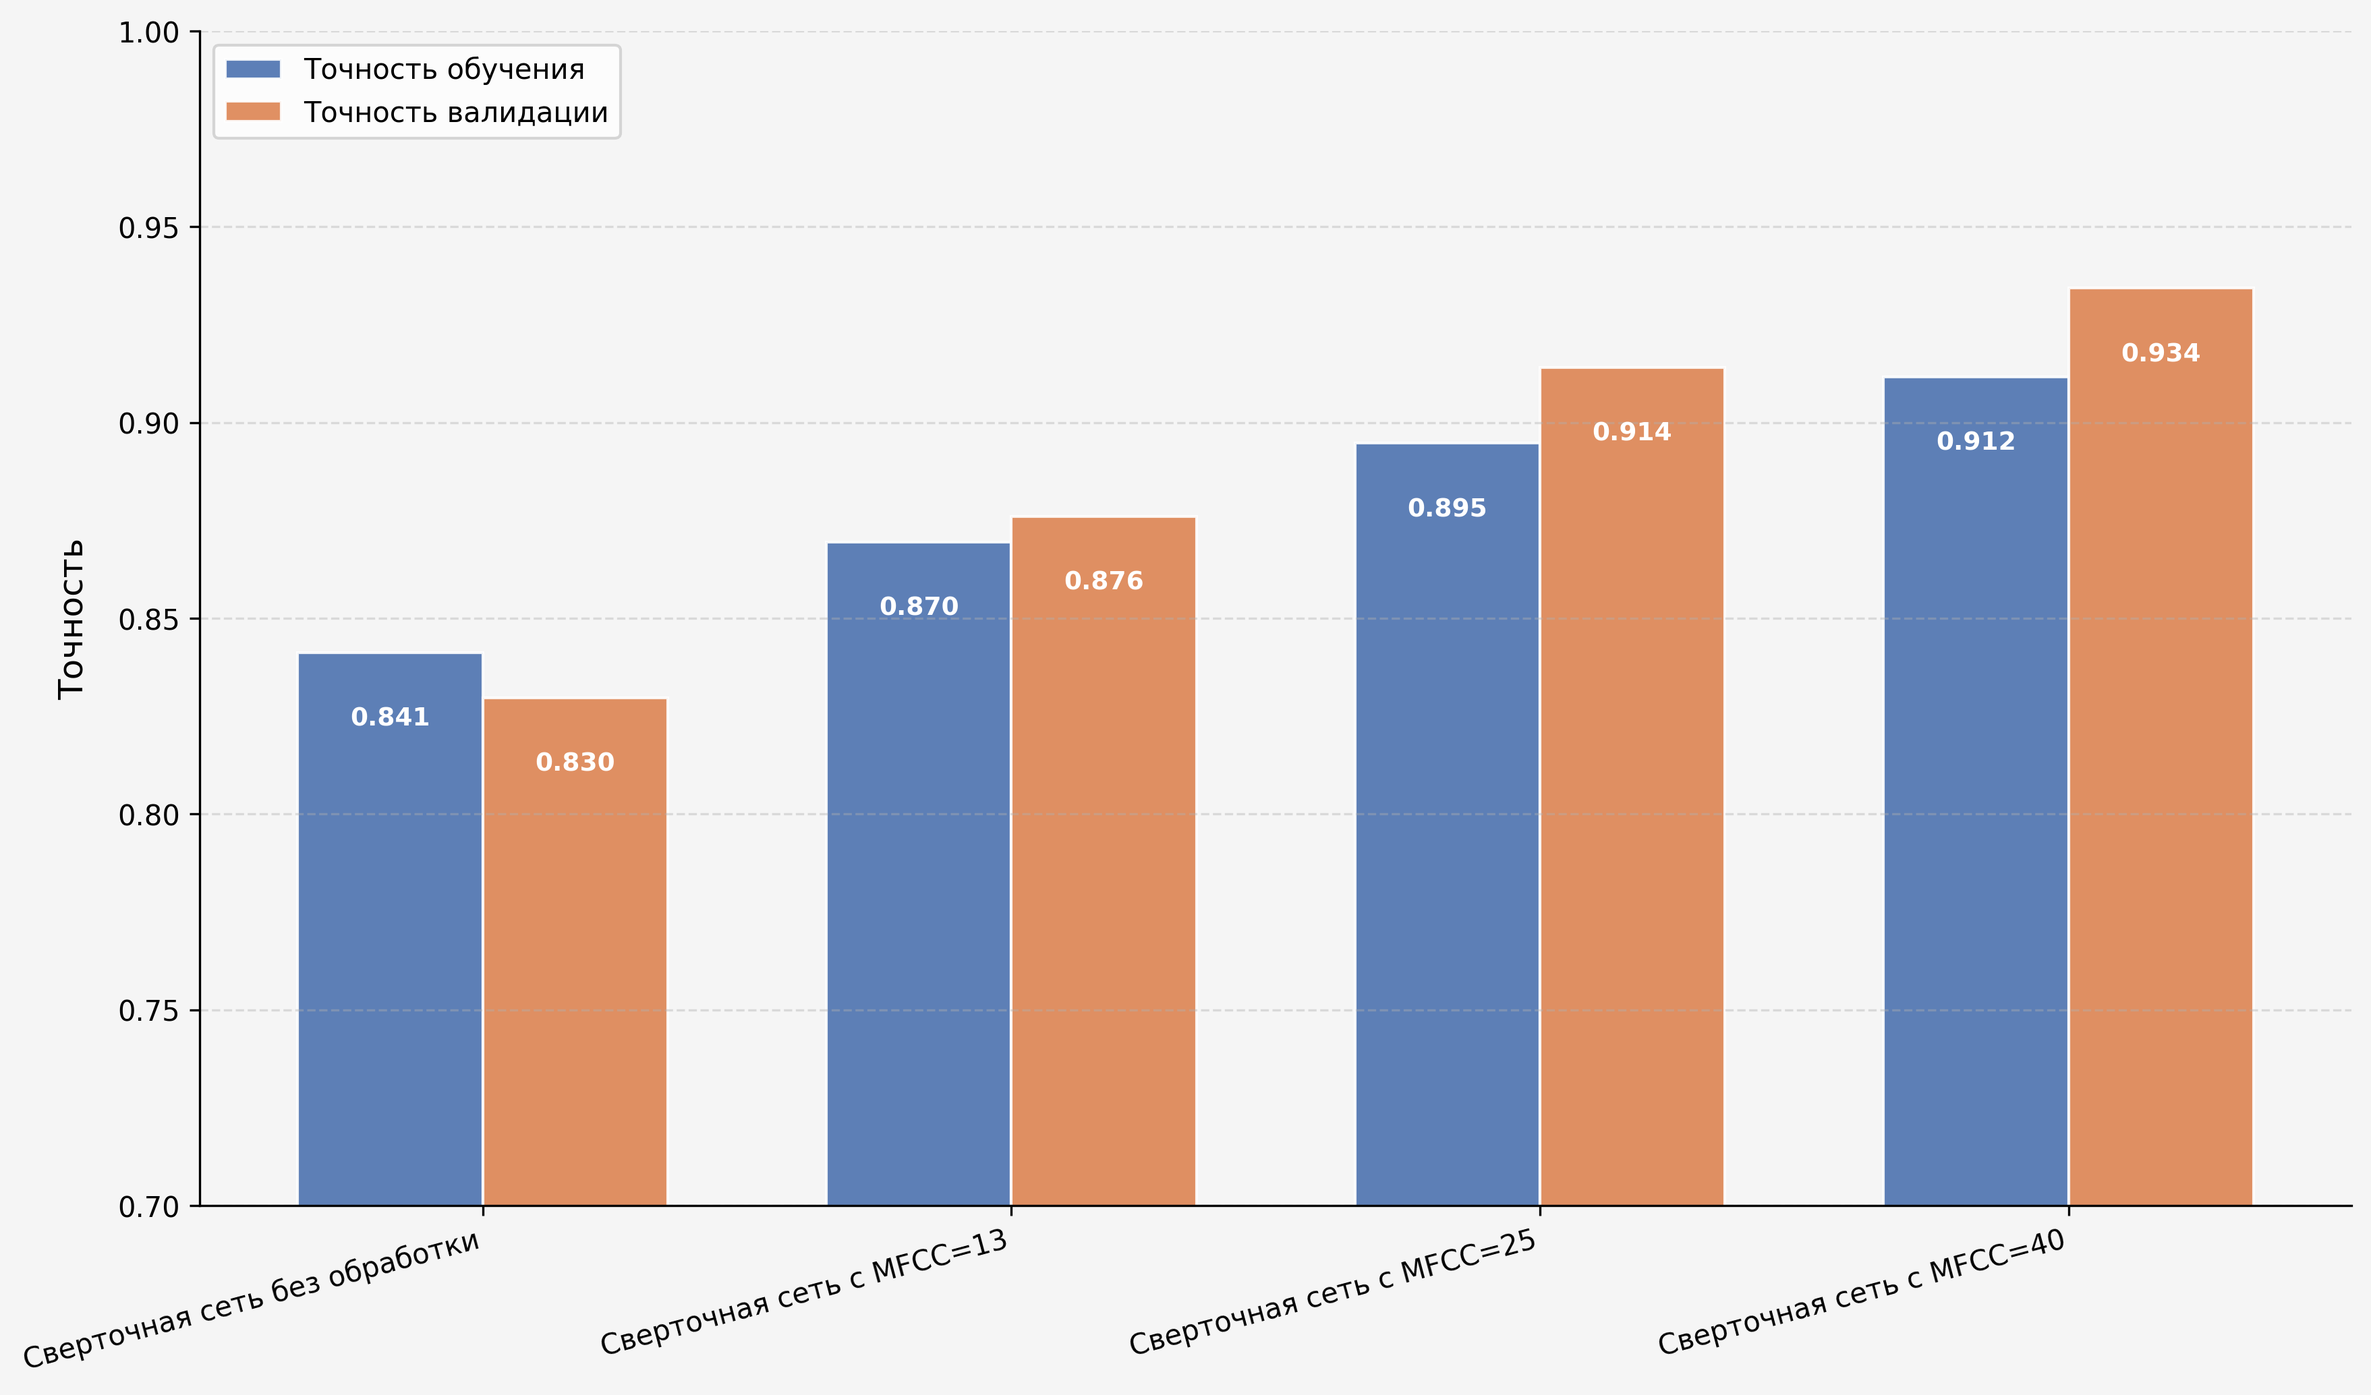
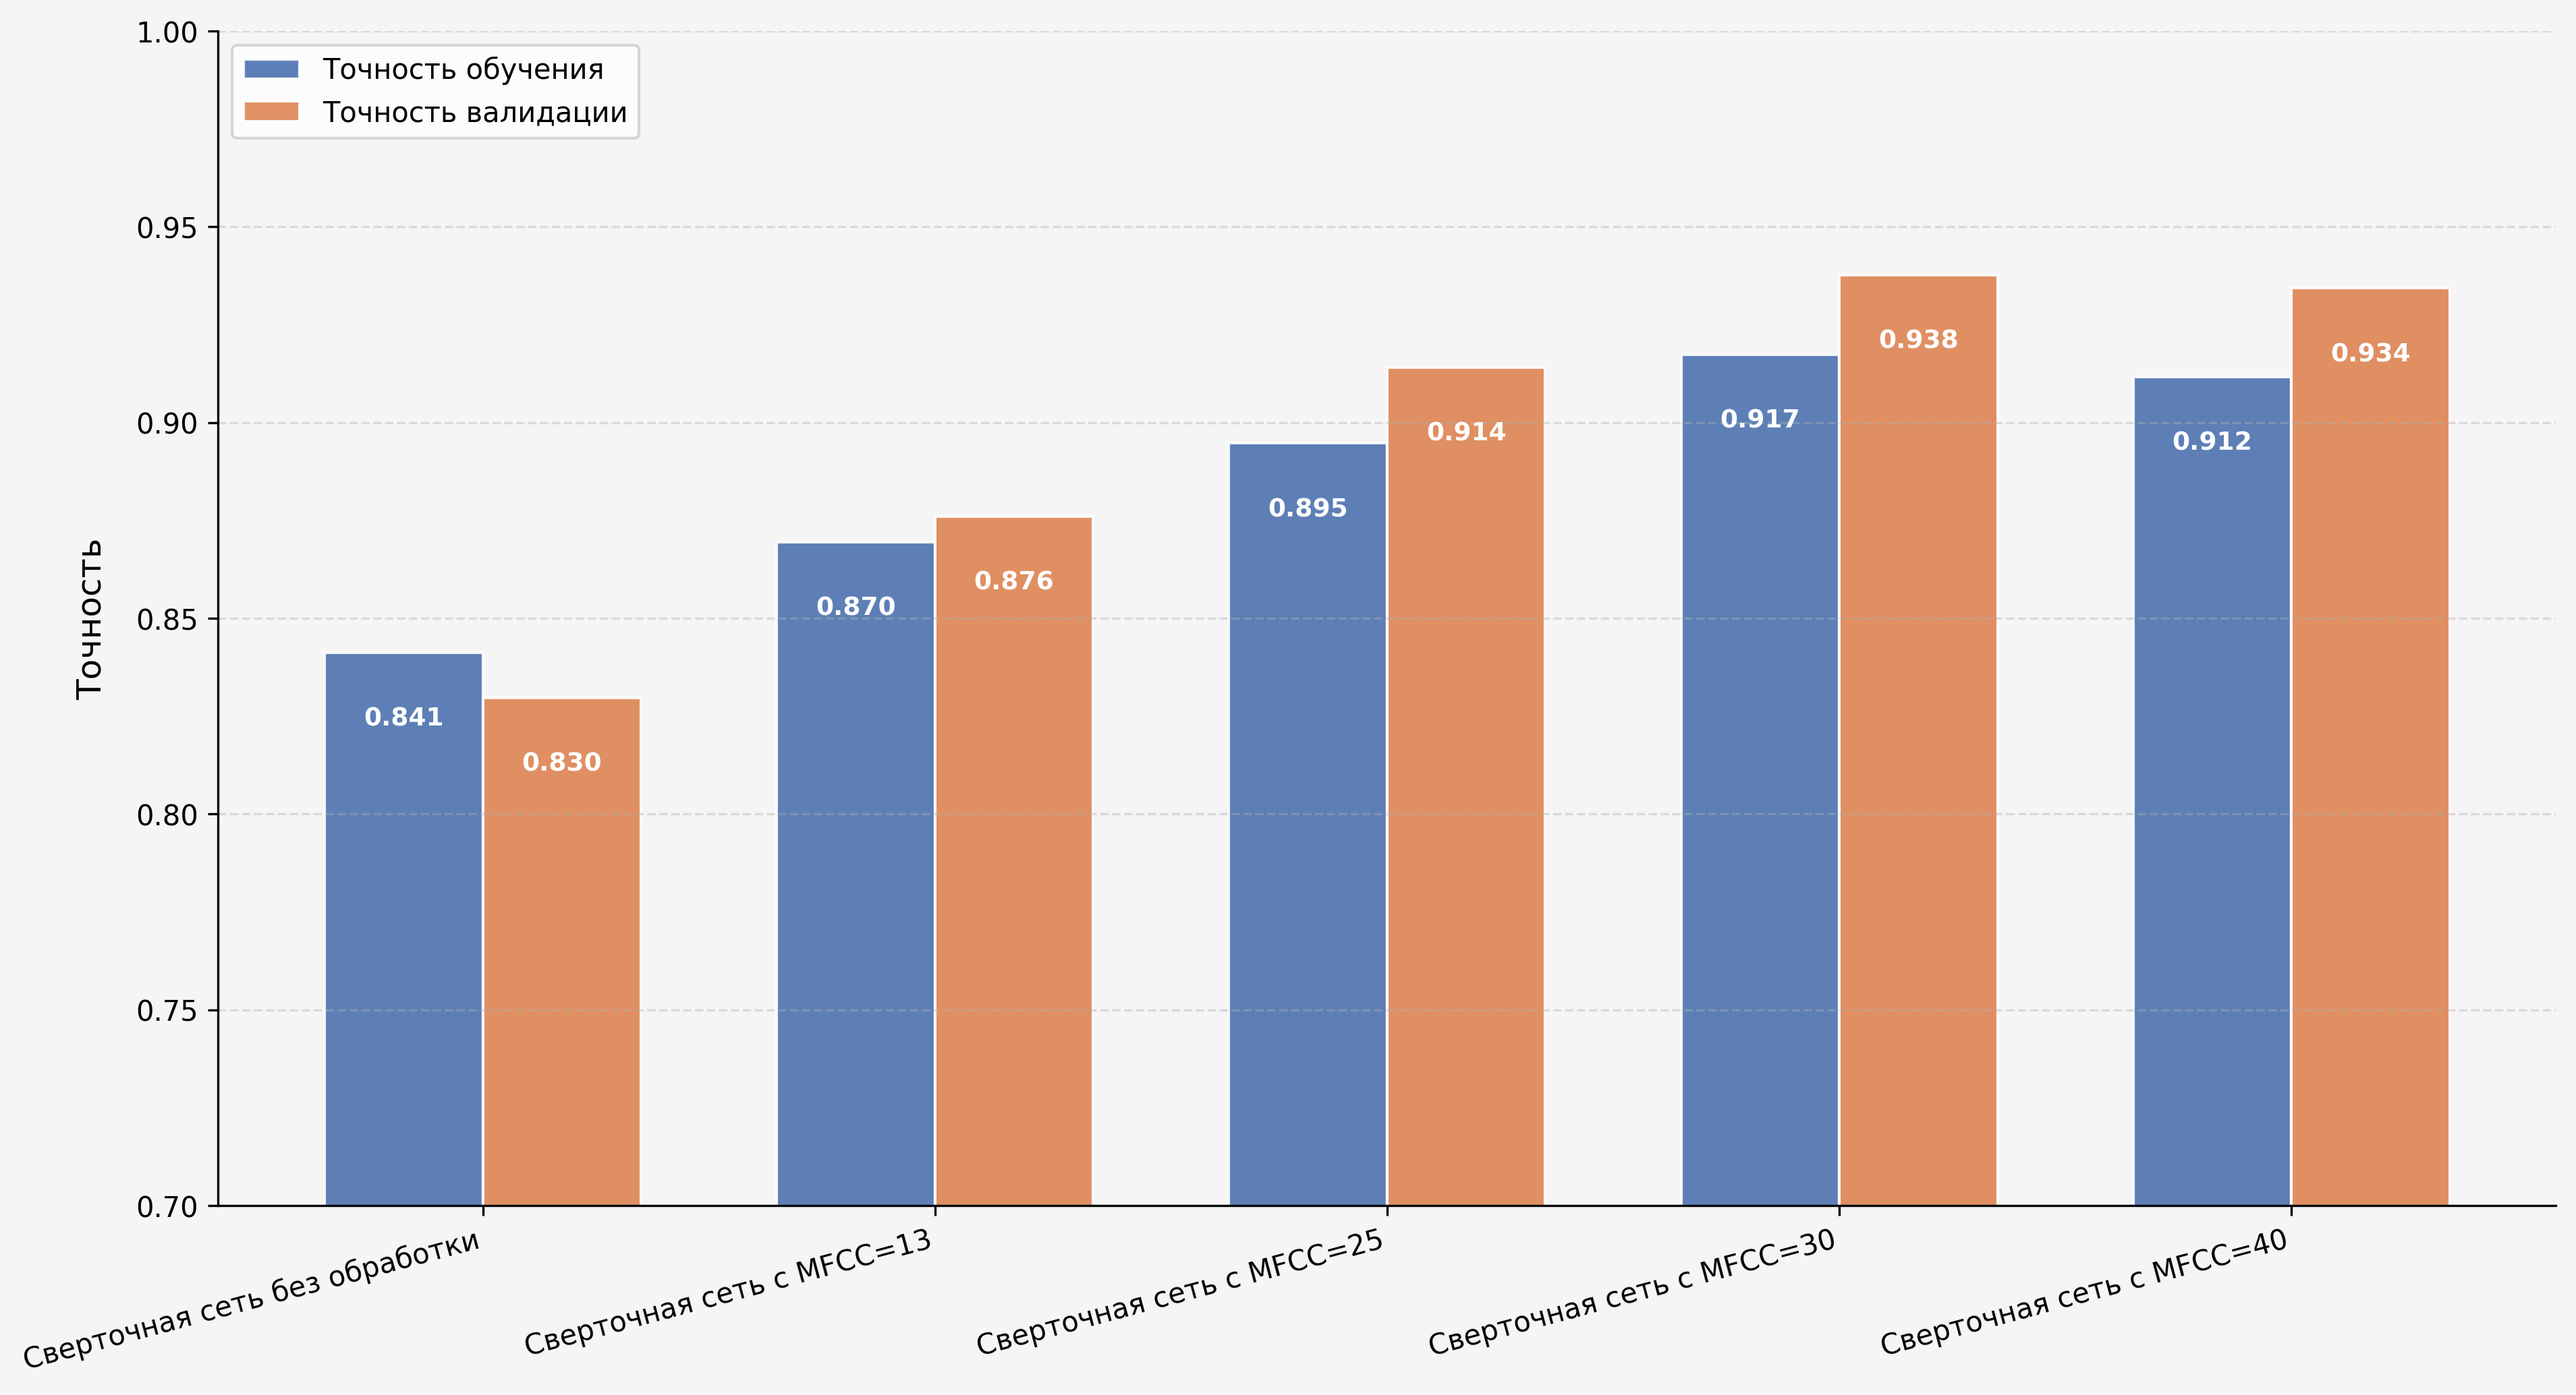
adds: фотки

diff --git a/plot_mfcc_25.py b/plot_mfcc_25.py
@@ -8,18 +8,19 @@ data = {
         'Сверточная сеть без обработки', 
         'Сверточная сеть с MFCC=13',
         'Сверточная сеть с MFCC=25',
+        'Сверточная сеть с MFCC=30',
         'Сверточная сеть с MFCC=40'
     ],
-    'Training Accuracy': [0.8412, 0.8695, 0.8947, 0.9117],
-    'Validation Accuracy': [0.8297, 0.8760, 0.9141, 0.9343],
-    'Training Loss': [None, None, 0.4412, 0.4476],
-    'Validation Loss': [None, None, 0.3977, 0.3849]
+    'Training Accuracy': [0.8412, 0.8695, 0.8947, 0.9173, 0.9117],
+    'Validation Accuracy': [0.8297, 0.8760, 0.9141, 0.9377, 0.9343],
+    'Training Loss': [None, None, 0.4412, 0.3894, 0.4476],
+    'Validation Loss': [None, None, 0.3977, 0.3229, 0.3849]
 }
 
 df = pd.DataFrame(data)
 
 # Создаем фигуру с улучшенным дизайном
-plt.figure(figsize=(12, 7), facecolor='#f5f5f5')
+plt.figure(figsize=(13, 7), facecolor='#f5f5f5')
 ax = plt.gca()
 ax.set_facecolor('#f5f5f5')
 
@@ -43,7 +44,6 @@ bars_val = plt.bar(index + bar_width, df['Validation Accuracy'], bar_width,
                    edgecolor='white', linewidth=1, alpha=0.9)
 
 # Настройка осей и заголовка
-# plt.xlabel('Модель', fontsize=12, labelpad=10)
 plt.ylabel('Точность', fontsize=12, labelpad=10)
 plt.xticks(index + bar_width/2, df['Model'], rotation=15, ha='right', fontsize=10)
 plt.ylim(0.7, 1.0)
